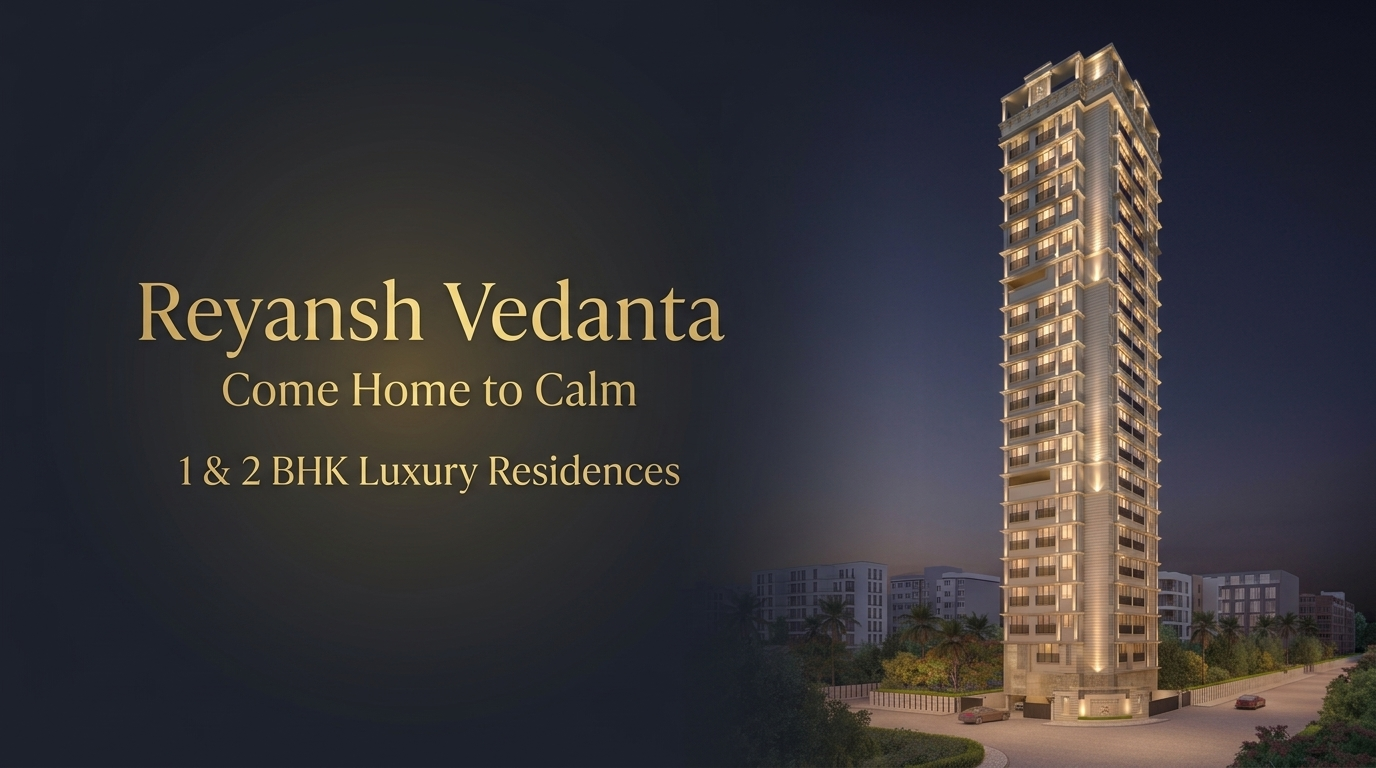
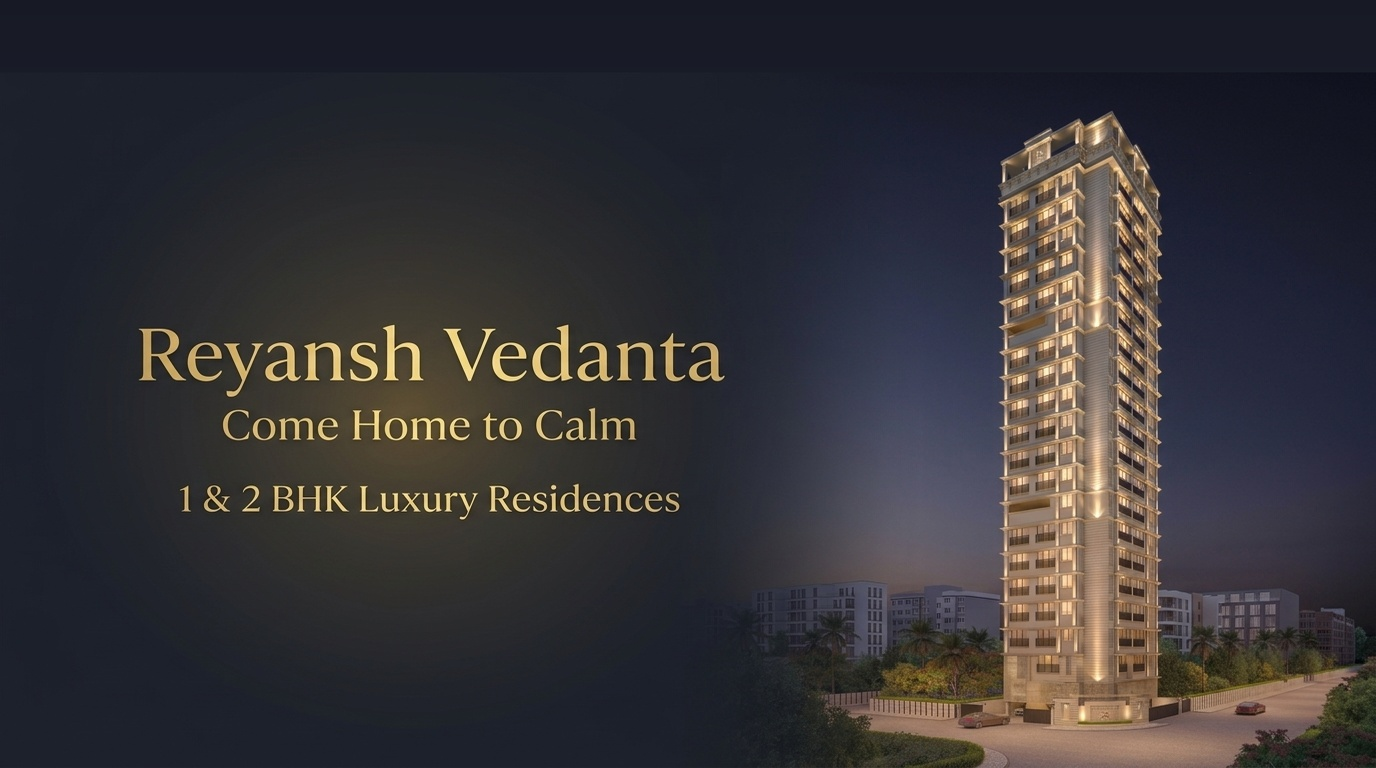
update top image positioning

Changed region(s): [[0.5938, 0.0625, 1.0, 0.9688], [0.0938, 0.3438, 0.5312, 0.6875]]

diff --git a/vedanta.html b/vedanta.html
@@ -118,15 +118,19 @@
         <div class="sticky top-0 h-screen w-full overflow-hidden flex items-center justify-center bg-dark">
 
             <!-- The New Place (Hero Content) -->
-            <div class="absolute inset-0 z-0 scale-110 transition-transform duration-1000 ease-out" id="hero-content">
+            <div class="absolute top-20 inset-x-0 bottom-0 z-0 scale-110 transition-transform duration-1000 ease-out" id="hero-content">
                 <picture class="w-full h-full block">
                     <!-- Mobile Screen (up to 767px) -->
-                    <source media="(max-width: 767px)" srcset="assets/vedanta-images/vedanta-hero-mobile.webp" type="image/webp">
-                    <source media="(max-width: 767px)" srcset="assets/vedanta-images/vedanta-hero-mobile.jpg" type="image/jpeg">
+                    <source media="(max-width: 767px)" srcset="assets/vedanta-images/vedanta-hero-mobile.webp"
+                        type="image/webp">
+                    <source media="(max-width: 767px)" srcset="assets/vedanta-images/vedanta-hero-mobile.jpg"
+                        type="image/jpeg">
 
                     <!-- Laptop / Desktop Screen (768px and above) -->
-                    <source media="(min-width: 768px)" srcset="assets/vedanta-images/vedanta-hero-laptop.webp" type="image/webp">
-                    <source media="(min-width: 768px)" srcset="assets/vedanta-images/vedanta-hero-laptop.jpg" type="image/jpeg">
+                    <source media="(min-width: 768px)" srcset="assets/vedanta-images/vedanta-hero-laptop.webp"
+                        type="image/webp">
+                    <source media="(min-width: 768px)" srcset="assets/vedanta-images/vedanta-hero-laptop.jpg"
+                        type="image/jpeg">
 
                     <!-- Fallback Image -->
                     <img src="assets/vedanta-images/vedanta-hero-laptop.jpg" alt="Reyansh Vedanta - Come Home to Calm"
@@ -136,7 +140,7 @@
 
             <!-- The Arch and Doors -->
             <div id="door-arch"
-                class="absolute z-20 top-1/2 left-1/2 -translate-x-1/2 -translate-y-1/2 w-[320px] md:w-[450px] h-[500px] md:h-[650px] rounded-t-full overflow-hidden will-change-transform"
+                class="absolute z-20 top-[calc(50%+2.5rem)] left-1/2 -translate-x-1/2 -translate-y-1/2 w-[320px] md:w-[450px] h-[500px] md:h-[650px] rounded-t-full overflow-hidden will-change-transform"
                 style="box-shadow: 0 0 0 150vmax #0F172A;">
 
                 <!-- Door Frame Inner Shadow for Depth -->
@@ -188,8 +192,10 @@
         <div class="max-w-7xl mx-auto px-4 sm:px-6 lg:px-8">
             <div class="grid lg:grid-cols-2 gap-8 lg:gap-16 items-center">
                 <div data-aos="fade-up">
-                    <h2 class="text-3xl sm:text-4xl md:text-5xl font-serif font-bold text-brand mb-3 md:mb-4">The Serene Life</h2>
-                    <p class="text-base sm:text-lg text-gray-600 mb-6 lg:mb-10">Experience the world of Vedanta. A meticulously planned
+                    <h2 class="text-3xl sm:text-4xl md:text-5xl font-serif font-bold text-brand mb-3 md:mb-4">The Serene
+                        Life</h2>
+                    <p class="text-base sm:text-lg text-gray-600 mb-6 lg:mb-10">Experience the world of Vedanta. A
+                        meticulously planned
                         residential tower designed for modern lifestyles.</p>
 
                     <ul class="hidden lg:block space-y-6">
